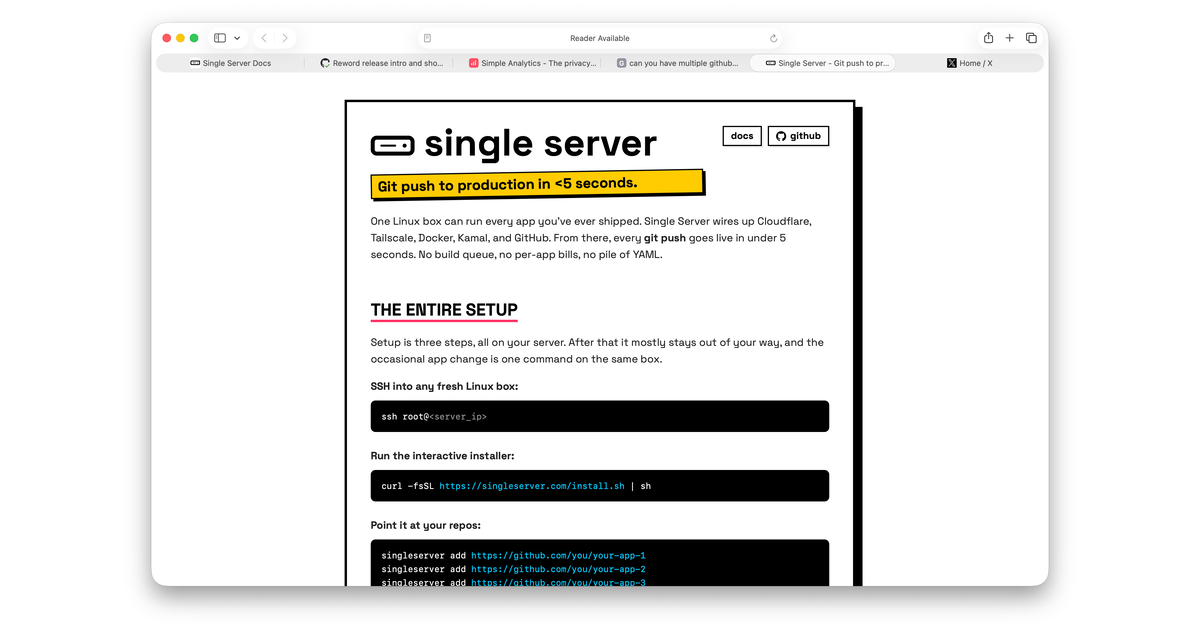
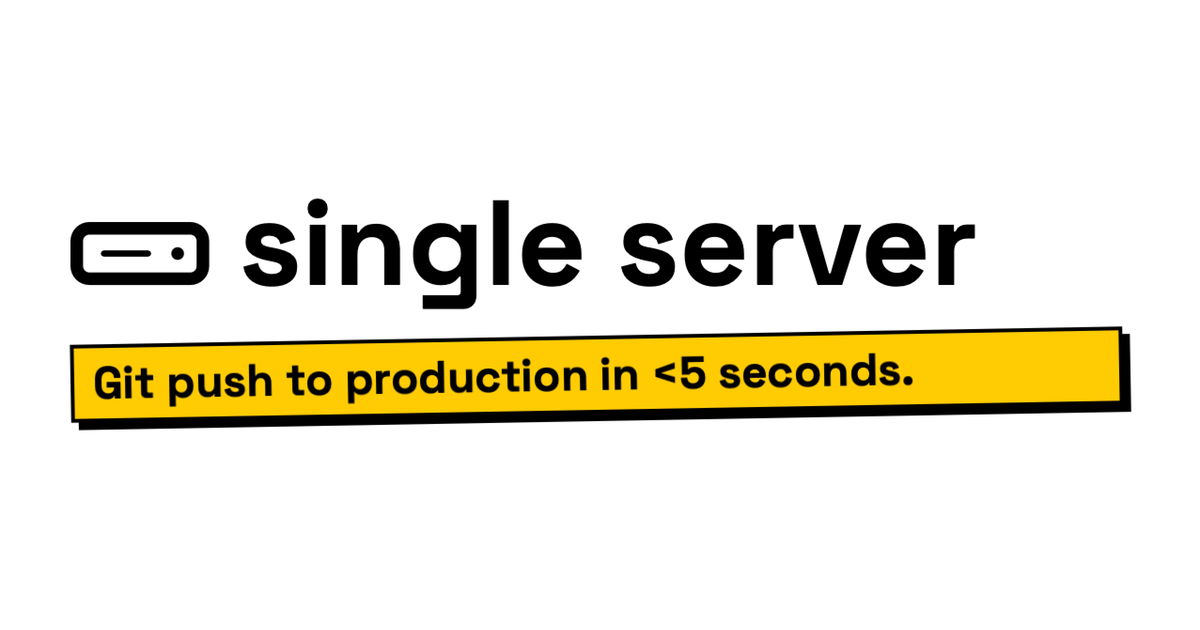
Replace og:image with the wordmark card

diff --git a/www/docs/index.html b/www/docs/index.html
@@ -10,14 +10,14 @@
     <meta property="og:title" content="Single Server Docs">
     <meta property="og:description" content="How Single Server works and every command it ships: setup, deploys, domains, env vars, storage, backups, and diagnostics.">
     <meta property="og:url" content="https://singleserver.com/docs/">
-    <meta property="og:image" content="https://singleserver.com/og-image.png?v=1">
+    <meta property="og:image" content="https://singleserver.com/og-image.png?v=2">
     <meta property="og:image:width" content="1200">
     <meta property="og:image:height" content="630">
     <meta property="og:image:alt" content="The Single Server homepage">
     <meta name="twitter:card" content="summary_large_image">
     <meta name="twitter:title" content="Single Server Docs">
     <meta name="twitter:description" content="How Single Server works and every command it ships: setup, deploys, domains, env vars, storage, backups, and diagnostics.">
-    <meta name="twitter:image" content="https://singleserver.com/og-image.png?v=1">
+    <meta name="twitter:image" content="https://singleserver.com/og-image.png?v=2">
     <meta name="twitter:image:alt" content="The Single Server homepage">
     <link rel="icon" href="/favicon.ico" sizes="any">
     <link rel="icon" type="image/png" sizes="16x16" href="/favicon-16x16.png">

diff --git a/www/index.html b/www/index.html
@@ -10,14 +10,14 @@
     <meta property="og:title" content="Single Server - Git push to production in under 5 seconds">
     <meta property="og:description" content="Run every side project on one Linux box. Single Server wires up Cloudflare, Tailscale, Docker, Kamal, and GitHub once, and every git push deploys in seconds.">
     <meta property="og:url" content="https://singleserver.com/">
-    <meta property="og:image" content="https://singleserver.com/og-image.png?v=1">
+    <meta property="og:image" content="https://singleserver.com/og-image.png?v=2">
     <meta property="og:image:width" content="1200">
     <meta property="og:image:height" content="630">
     <meta property="og:image:alt" content="The Single Server homepage">
     <meta name="twitter:card" content="summary_large_image">
     <meta name="twitter:title" content="Single Server - Git push to production in under 5 seconds">
     <meta name="twitter:description" content="Run every side project on one Linux box. Single Server wires up Cloudflare, Tailscale, Docker, Kamal, and GitHub once, and every git push deploys in seconds.">
-    <meta name="twitter:image" content="https://singleserver.com/og-image.png?v=1">
+    <meta name="twitter:image" content="https://singleserver.com/og-image.png?v=2">
     <meta name="twitter:image:alt" content="The Single Server homepage">
     <link rel="icon" href="/favicon.ico" sizes="any">
     <link rel="icon" type="image/png" sizes="16x16" href="/favicon-16x16.png">